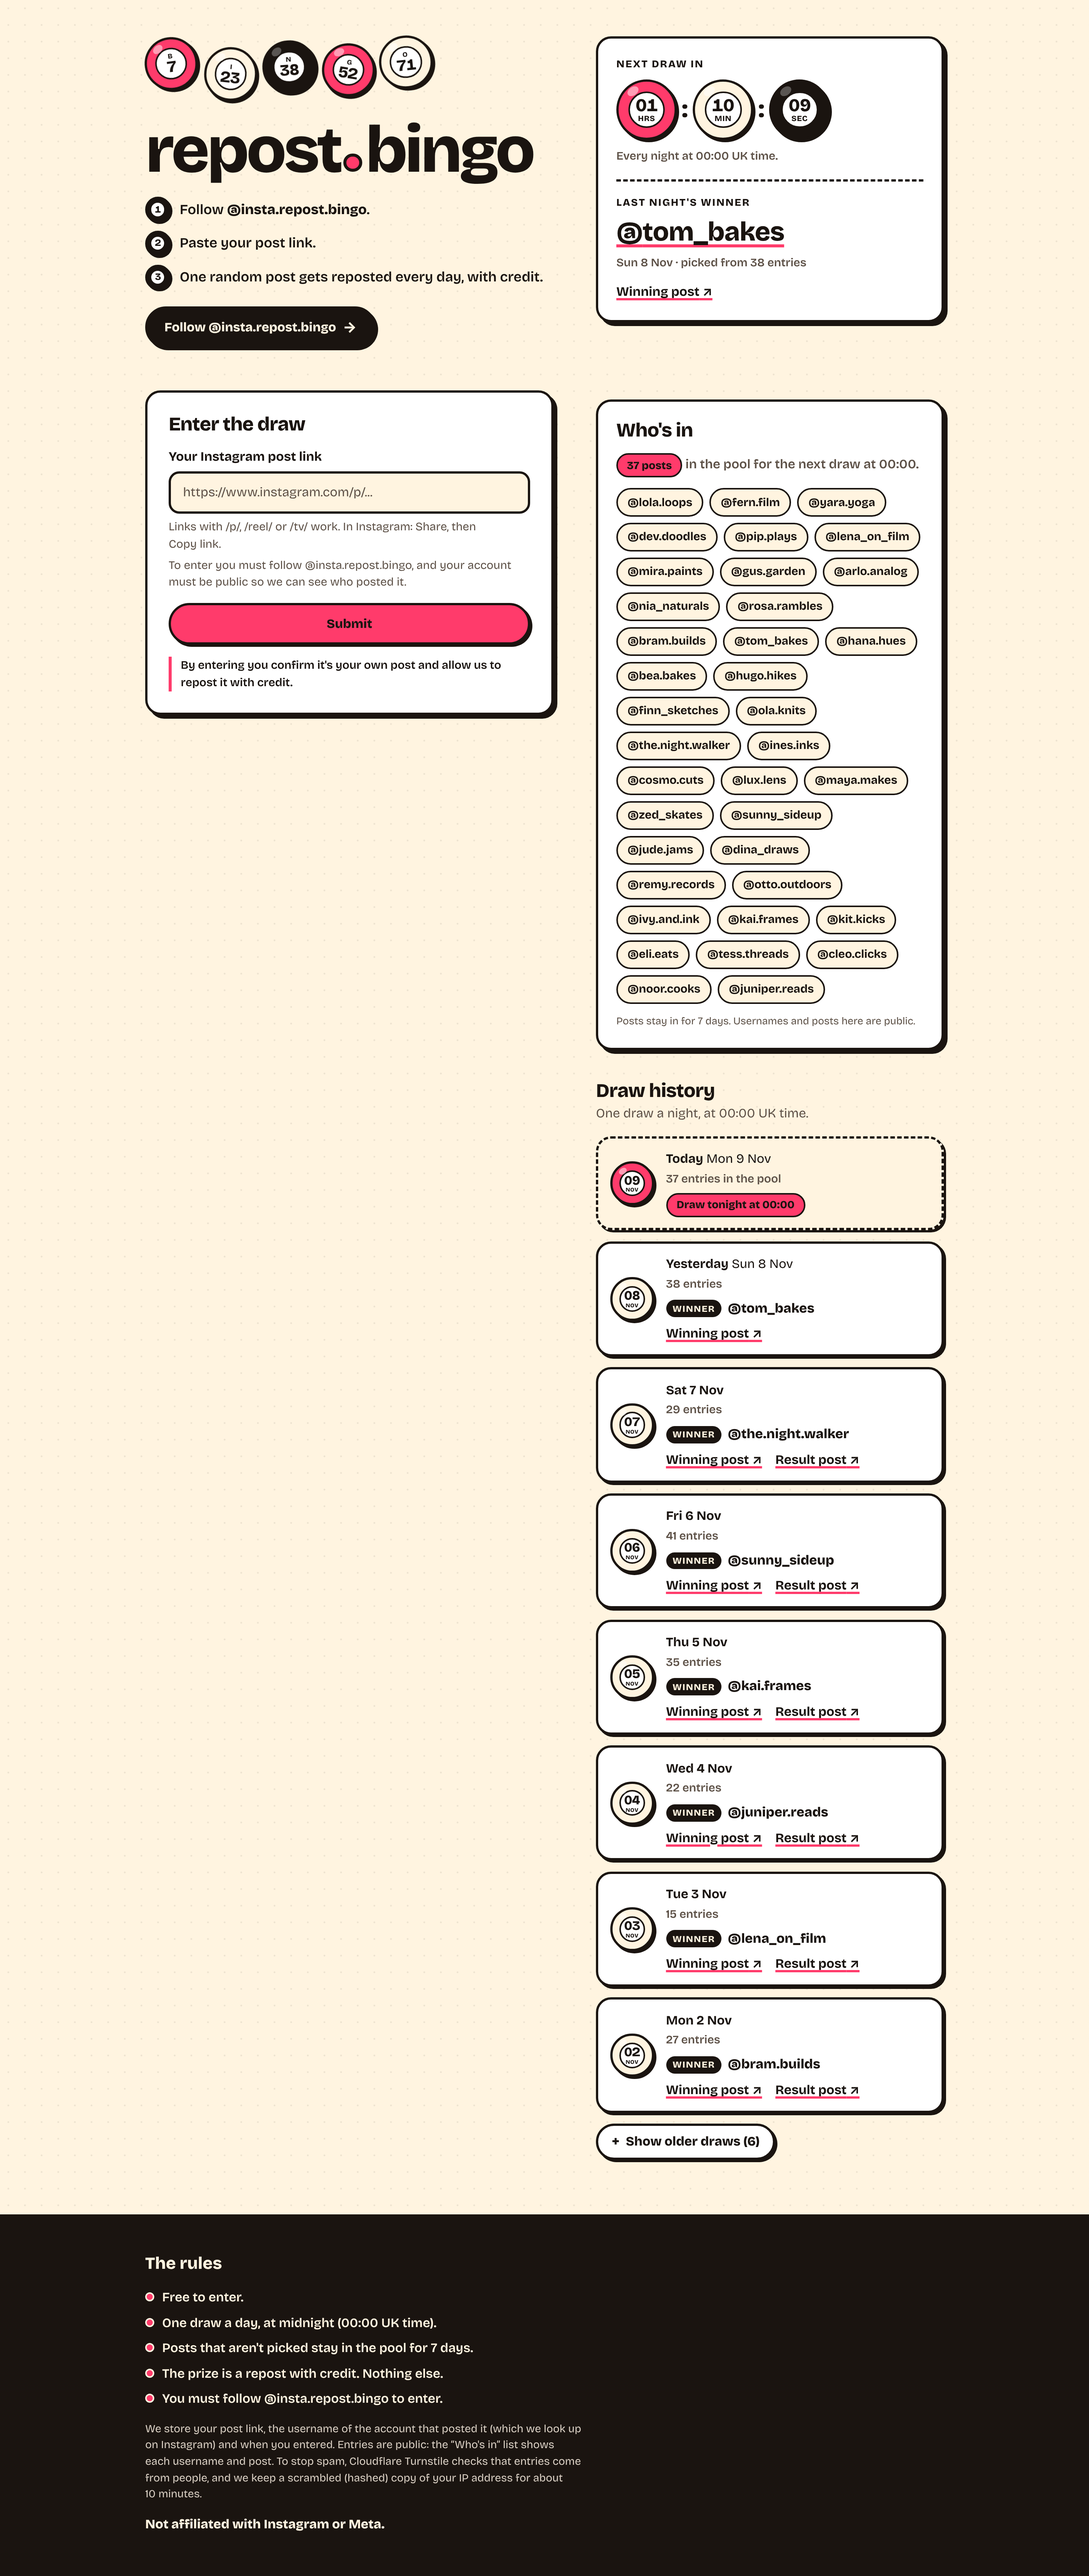
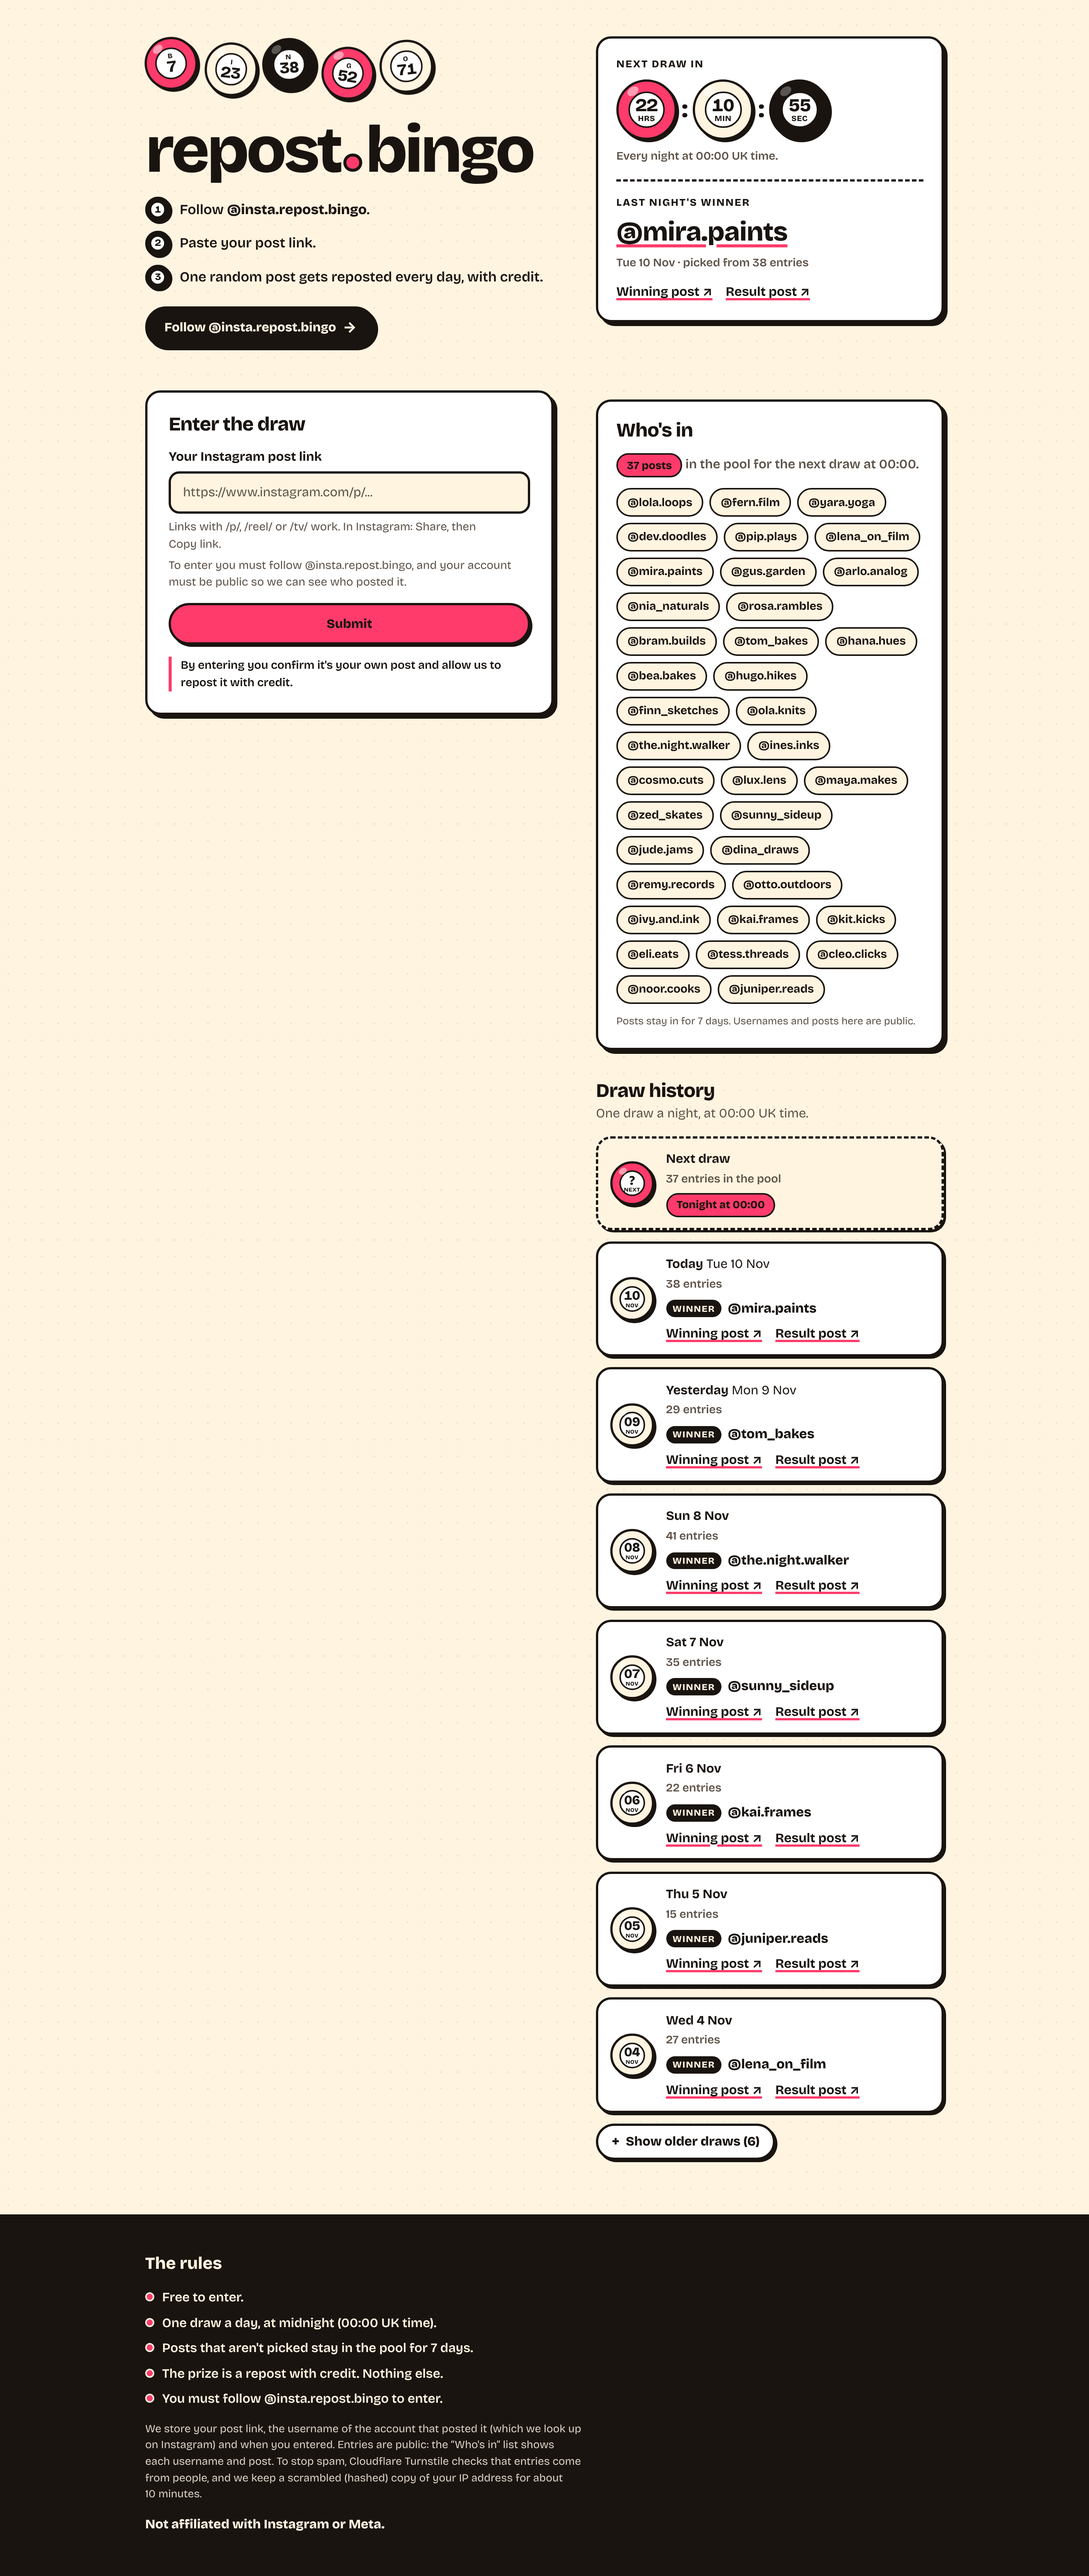
Show the next draw in its own row and refresh longer after midnight
The bot dates each draw by the London day it runs, just after midnight,
so a result dated today used to hide the pending row for the whole day.
The history now always starts with a Next draw row (pool size, Tonight
at 00:00) followed by the results. The page keeps refreshing for 90
minutes after midnight, which covers a late start and the bot's first
retries. The README describes the bot as it really works: it posts a
result card, the repost is done by hand, and its extra fields and
bot_state collection are listed.

Claude-Session: https://claude.ai/code/session_01HY4sCso3eQ9fuvCA4UTYf6

Changed region(s): [[0.1875, 0.0, 0.4062, 0.0623], [0.625, 0.467, 0.75, 0.5292], [0.625, 0.0934, 0.75, 0.1245]]

diff --git a/tests/history.test.ts b/tests/history.test.ts
@@ -11,17 +11,46 @@ afterAll(async () => {
   await mongo?.stop();
 });
 
-/** A draw exactly as the bot writes it. */
+/**
+ * A draw exactly as the bot writes it (src/run.ts in repost-bingo-bot): dated
+ * by the London day it ran, just after midnight, with the bot's own extra fields.
+ */
 function botDraw(date: string, overrides: Record<string, unknown> = {}) {
   return {
     date,
+    drawNumber: Number(date.slice(8)),
     entryCount: 12,
     winnerUrl: `https://www.instagram.com/p/Win${date.replaceAll("-", "")}`,
     winnerUsername: "lucky.one",
-    resultPostUrl: `https://www.instagram.com/p/Res${date.replaceAll("-", "")}`,
-    createdAt: new Date(`${date}T12:00:30Z`),
+    seed: "ab".repeat(32),
+    resultPostId: "17900000000000000",
+    resultPostUrl: `https://www.instagram.com/p/Res${date.replaceAll("-", "")}/`,
+    status: "published",
+    createdAt: new Date(`${date}T00:03:10Z`),
+    imageUrl: "https://files.catbox.moe/card.jpg",
+    containerId: "17890000000000000",
+    winnerTagged: true,
+    notifiedAt: new Date(`${date}T00:03:40Z`),
+    error: null,
     ...overrides,
   };
+}
+
+/** A night with nobody in the pool, as the bot records it. */
+function emptyDraw(date: string) {
+  return botDraw(date, {
+    entryCount: 0,
+    winnerUrl: null,
+    winnerUsername: null,
+    seed: null,
+    resultPostId: null,
+    resultPostUrl: null,
+    status: "skipped_empty",
+    imageUrl: null,
+    containerId: null,
+    winnerTagged: null,
+    notifiedAt: null,
+  });
 }
 
 function entry(createdAt: string, drawDate: string | null = null) {
@@ -39,28 +68,37 @@ async function seed(db: Db, draws: object[], entries: object[] = []) {
 }
 
 describe("draw history", () => {
-  it("shows today's draw as pending until the bot writes the result", async () => {
+  it("always has a next draw, before and after tonight's result arrives", async () => {
     const db = mongo.freshDb();
     await seed(db, [botDraw("2026-11-07"), botDraw("2026-11-08")]);
 
-    const morning = await loadHistory(db, new Date("2026-11-09T10:00:00Z"));
-    expect(morning.today).toBe("2026-11-09");
-    expect(morning.pending).toEqual({ date: "2026-11-09", poolSize: 0 });
-    expect(morning.draws.map((d) => d.date)).toEqual(["2026-11-08", "2026-11-07"]);
+    // 00:01 on the 9th: midnight has passed and the bot hasn't written the result yet.
+    const justAfterMidnight = await loadHistory(db, new Date("2026-11-09T00:01:00Z"));
+    expect(justAfterMidnight.today).toBe("2026-11-09");
+    expect(justAfterMidnight.next).toEqual({ poolSize: 0 });
+    expect(justAfterMidnight.draws.map((d) => d.date)).toEqual(["2026-11-08", "2026-11-07"]);
 
-    // Still pending later in the day if the bot hasn't written today's result yet.
-    expect((await loadHistory(db, new Date("2026-11-09T12:30:00Z"))).pending).not.toBeNull();
-
+    // The bot dates the midnight draw by the day it ran: the 9th.
     await seed(db, [botDraw("2026-11-09")]);
-    const afternoon = await loadHistory(db, new Date("2026-11-09T12:31:00Z"));
-    expect(afternoon.pending).toBeNull();
-    expect(afternoon.draws[0]).toEqual({
+    const morning = await loadHistory(db, new Date("2026-11-09T10:00:00Z"));
+    expect(morning.next).toEqual({ poolSize: 0 });
+    expect(morning.draws.map((d) => d.date)).toEqual(["2026-11-09", "2026-11-08", "2026-11-07"]);
+    expect(morning.draws[0]).toEqual({
       date: "2026-11-09",
       entryCount: 12,
       winnerUsername: "lucky.one",
       winnerUrl: "https://www.instagram.com/p/Win20261109",
       resultPostUrl: "https://www.instagram.com/p/Res20261109",
     });
+  });
+
+  it("reads a night with no entries as a draw without a winner", async () => {
+    const db = mongo.freshDb();
+    await seed(db, [emptyDraw("2026-11-09")]);
+    const history = await loadHistory(db, new Date("2026-11-09T10:00:00Z"));
+    expect(history.draws).toEqual([
+      { date: "2026-11-09", entryCount: 0, winnerUsername: null, winnerUrl: null, resultPostUrl: null },
+    ]);
   });
 
   it("uses the London date for today, in summer too", async () => {
@@ -84,15 +122,17 @@ describe("draw history", () => {
     expect(history.draws.map((d) => d.date)).toEqual(["2026-11-08"]);
   });
 
-  it("shows a draw before its result post is published", async () => {
+  it("shows a winner before the result post is published, or if posting failed", async () => {
     const db = mongo.freshDb();
-    await seed(db, [botDraw("2026-11-09", { resultPostUrl: null })]);
+    await seed(db, [
+      botDraw("2026-11-09", { resultPostId: null, resultPostUrl: null, status: "failed", error: "Image upload failed (503)" }),
+    ]);
     const history = await loadHistory(db, new Date("2026-11-09T13:00:00Z"));
     expect(history.draws[0]).toMatchObject({ winnerUsername: "lucky.one", resultPostUrl: null });
   });
 });
 
-describe("pool size for today's pending draw", () => {
+describe("pool size for the next draw", () => {
   it("counts entries not yet picked from the last 7 days", async () => {
     const db = mongo.freshDb();
     const now = new Date("2026-11-09T10:00:00Z");
@@ -107,7 +147,7 @@ describe("pool size for today's pending draw", () => {
       ],
     );
     expect(await countPool(db, now)).toBe(2);
-    expect((await loadHistory(db, now)).pending).toEqual({ date: "2026-11-09", poolSize: 2 });
+    expect((await loadHistory(db, now)).next).toEqual({ poolSize: 2 });
   });
 });
 

diff --git a/components/DrawHistory.tsx b/components/DrawHistory.tsx
@@ -36,27 +36,26 @@ export async function DrawHistory() {
     );
   }
 
-  const { today, pending, draws } = data;
+  const { today, next, draws } = data;
   const recent = draws.slice(0, VISIBLE_PAST_DRAWS);
   const older = draws.slice(VISIBLE_PAST_DRAWS);
 
   return (
     <div className="history__lists">
       <ol className="draws">
-        {pending ? (
-          <li className="draw draw--pending">
-            <BingoBall label={dayOfMonth(pending.date)} caption={monthAbbrev(pending.date)} tone="accent" />
-            <div className="draw__body">
-              <p className="draw__date">
-                <DateLabel date={pending.date} today={today} />
-              </p>
-              <p className="draw__count">{formatEntryCount(pending.poolSize)} in the pool</p>
-              <p className="draw__status">
-                <span className="pill">Draw tonight at {DRAW_TIME_LABEL}</span>
-              </p>
-            </div>
-          </li>
-        ) : null}
+        {/* Always first: the draw still to come. Results follow, newest first. */}
+        <li className="draw draw--pending">
+          <BingoBall label="?" caption="NEXT" tone="accent" />
+          <div className="draw__body">
+            <p className="draw__date">
+              <strong>Next draw</strong>
+            </p>
+            <p className="draw__count">{formatEntryCount(next.poolSize)} in the pool</p>
+            <p className="draw__status">
+              <span className="pill">Tonight at {DRAW_TIME_LABEL}</span>
+            </p>
+          </div>
+        </li>
         {recent.map((draw) => (
           <DrawRow key={draw.date} draw={draw} today={today} />
         ))}
@@ -72,8 +71,6 @@ export async function DrawHistory() {
           </ol>
         </details>
       ) : null}
-
-      {!pending && draws.length === 0 ? <p className="history__notice">No draws yet.</p> : null}
     </div>
   );
 }

diff --git a/components/Countdown.tsx b/components/Countdown.tsx
@@ -17,6 +17,13 @@ const nowInSeconds = () => Math.floor(Date.now() / 1000);
 // browser fills in the real time after hydration.
 const noTimeOnServer = () => null;
 
+/**
+ * The bot's job is scheduled for 00:02, usually starts a few minutes late, and
+ * retries at 00:32 and later if posting fails. These refreshes cover the first
+ * hour and a half, then stop.
+ */
+const REFRESH_MINUTES_AFTER_MIDNIGHT = [3, 5, 8, 12, 20, 30, 45, 60, 90];
+
 /** Counts down to the next draw at 00:00 UK time (handles GMT and BST). */
 export function Countdown() {
   const router = useRouter();
@@ -26,8 +33,8 @@ export function Countdown() {
   const target = now ? nextLondonMidnight(now) : null;
   const parts = now && target ? splitCountdown(target.getTime() - now.getTime()) : null;
 
-  // When midnight passes the target moves on a day. The bot writes the result
-  // a little after midnight, so refresh the page data a few times to show it.
+  // When midnight passes, the target moves on a day and the bot's result is on
+  // its way. Refresh the page data at these times so it shows up by itself.
   const targetTime = target?.getTime() ?? null;
   const previousTarget = useRef<number | null>(null);
   useEffect(() => {
@@ -35,7 +42,9 @@ export function Countdown() {
     const previous = previousTarget.current;
     previousTarget.current = targetTime;
     if (previous === null || previous === targetTime) return;
-    const timers = [30_000, 120_000, 300_000].map((delay) => setTimeout(() => router.refresh(), delay));
+    const timers = REFRESH_MINUTES_AFTER_MIDNIGHT.map((minutes) =>
+      setTimeout(() => router.refresh(), minutes * 60_000),
+    );
     return () => timers.forEach(clearTimeout);
   }, [targetTime, router]);
 

diff --git a/lib/history.ts b/lib/history.ts
@@ -16,8 +16,12 @@ export interface DrawSummary {
 
 export interface HistoryData {
   today: DateKey;
-  /** Set while today's result isn't in yet ("Draw tonight at 00:00"). */
-  pending: { date: DateKey; poolSize: number } | null;
+  /**
+   * The draw still to come, tonight at 00:00. It has no date on purpose: the
+   * bot dates a draw by the London day it runs, which is the day after the
+   * entries came in, and the page shouldn't depend on that.
+   */
+  next: { poolSize: number };
   /** Results written by the bot, newest first. */
   draws: DrawSummary[];
 }
@@ -36,13 +40,8 @@ export async function loadHistory(
     .toArray();
 
   const draws = docs.map(toSummary).filter((draw): draw is DrawSummary => draw !== null);
-  const drawnToday = draws.some((draw) => draw.date === today);
 
-  return {
-    today,
-    pending: drawnToday ? null : { date: today, poolSize: await countPool(db, now) },
-    draws,
-  };
+  return { today, next: { poolSize: await countPool(db, now) }, draws };
 }
 
 /** The most recent valid result the bot has written (dated today or earlier). */

diff --git a/README.md b/README.md
@@ -16,9 +16,10 @@ The system is two repos that share one MongoDB database:
  repost.bingo website (this repo)          repost-bingo-bot (private repo)
  - collects entries                        - runs the draw every night at 00:00 London time
  - shows the draw history                  - writes the result to `draws`
-            \                              - posts the result and the repost on Instagram
-             \                                        /
-              +----------- MongoDB Atlas ------------+
+            \                              - posts a result card on Instagram
+             \                             - tells the owner, who taps Repost by hand
+              \                                       /
+               +---------- MongoDB Atlas ------------+
                  entries: written by the website, picked by the bot
                  draws:   written by the bot, read by the website
 ```
@@ -32,7 +33,7 @@ It is one public page with no login and no admin:
 1. **Intro:** "Follow @insta.repost.bingo. Paste your post link. One random post gets reposted every day, with credit." A Follow button opens the Instagram profile.
 2. **Next draw and last night's winner:**
    - A live countdown (hours, minutes, seconds) to the next draw at 00:00 UK time. It is computed in the browser for Europe/London, so it handles GMT and BST.
-   - Just after midnight the page refreshes its data a few times so the new result appears.
+   - For an hour and a half after midnight the page refreshes its data by itself, so the new result appears when the bot posts it.
    - The most recent result is always shown: "Last night's winner", the @username, the date, the entry count and the post links.
 3. **Entry form:**
    - One field for the Instagram post link, and a Submit button. There is no username field: the site reads the post's owner from Instagram.
@@ -41,7 +42,7 @@ It is one public page with no login and no admin:
 4. **Who's in:** everyone in the pool for the next draw, newest first. Each @username links to the entered post.
 5. **Draw history:**
    - Results from `draws`, newest first: date, entry count, the winner's @username, a link to the winning post, and a link to the result post once the bot has published it.
-   - Today shows "Draw tonight at 00:00", with the number of entries in the pool, until the bot writes today's result.
+   - The first row is always the next draw: "Tonight at 00:00", with the number of entries in the pool.
 6. **Footer:**
    - The rules: free, one draw a day, unpicked entries stay in the pool for 7 days, the prize is a repost with credit only, you must follow the account to enter.
    - "Not affiliated with Instagram or Meta."
@@ -93,7 +94,7 @@ The order matters: bots (Turnstile) and duplicates are stopped before the site a
 - The page tells people they must follow @insta.repost.bingo to enter. It says so in step 1 of the intro, under the link field and in the rules.
 - Nothing in this repo checks it, and the page never says it is checked.
 - Instagram doesn't show who follows an account without logging in. Its official API only reports a follow for people who have messaged the account, so a real check would need a DM step.
-- Any check, for example on the winner, is up to the bot or whoever runs the account.
+- The bot doesn't check it either. Whoever runs the account can check the winner by hand before reposting.
 
 ## Draw history
 
@@ -105,7 +106,7 @@ Because the bot owns `draws`, the website checks each document before showing it
 - Only real Instagram post links are turned into links.
 - Usernames are validated.
 
-The pool size on today's row counts entries with `drawDate: null` from the last 7 days.
+The pool size on the next-draw row counts entries with `drawDate: null` from the last 7 days. The bot draws from the same set.
 
 ## Shared data contract
 
@@ -113,14 +114,21 @@ Don't change these shapes without updating the bot.
 
 Both repos must use the same database: the one named in `MONGODB_URI`, or `repost_bingo` if the connection string doesn't name one.
 
-**Draw time and `draws.date`.** The bot runs the draw every night at 00:00 UK time (Europe/London).
-- Recommended: give each draw the `date` of the day whose entries were drawn, which is the day that just ended. The draw at 00:00 on 10 November then has `date: "2026-11-09"`. The history reads naturally that way: "Today: Draw tonight at 00:00", then the result under "Yesterday".
-- The "Last night's winner" card works either way: it shows the newest result dated today or earlier.
+**Draw time and `draws.date`.**
+- The bot starts the draw at 00:02 UK time (Europe/London). If posting fails, it retries by itself for a few hours.
+- It dates each draw by the London day it ran. The draw just after midnight on 10 November has `date: "2026-11-10"`, so the page shows it as today's result.
+- The page doesn't depend on that. The next draw has its own row without a date, and "Last night's winner" is simply the newest result.
 
 | Collection | Shape | Written by | Read by |
 | --- | --- | --- | --- |
 | `entries` | `{ url (unique), username, createdAt, drawDate \| null }` | website (inserts with `drawDate: null`) | bot |
-| `draws` | `{ date "YYYY-MM-DD", entryCount, winnerUrl, winnerUsername, resultPostUrl \| null, createdAt }` | bot | website |
+| `draws` | `{ date "YYYY-MM-DD", entryCount, winnerUrl \| null, winnerUsername \| null, resultPostUrl \| null, createdAt }` | bot | website |
+
+Bot-only extras, which the website ignores:
+
+- **More fields on `draws`:** `drawNumber`, `seed`, `status`, `resultPostId` and a few for its own bookkeeping.
+- **A night with no entries:** `entryCount: 0` and `null` for the winner. The page shows it as "No winner this day."
+- **`bot_state` collection:** the bot's Instagram token. The website never reads it.
 
 Website-only extras:
 
